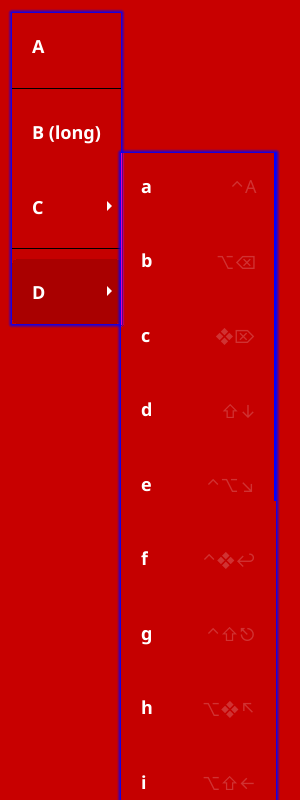
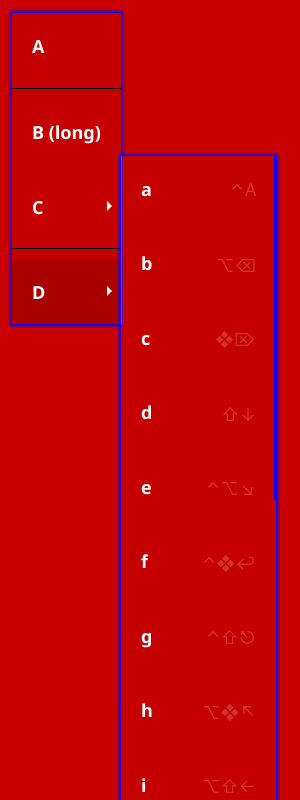
[widget] menu layout only uses interactive area
This fixes #4068 with the prior adjustment to the mobile’s interactive
area to take a displacing window head into account.

diff --git a/widget/popup_menu_test.go b/widget/popup_menu_test.go
@@ -44,11 +44,8 @@ func TestPopUpMenu_Resize(t *testing.T) {
 	largeSize := c.Size().Add(fyne.NewSize(10, 10))
 	m.Resize(largeSize)
 	test.AssertRendersToMarkup(t, "popup_menu/canvas_too_small.xml", c)
-	areaPos, areaSize := c.InteractiveArea()
-	safeAreaMargin := c.Size().Height - areaSize.Height
-	// #4068 (wip)
-	safeAreaMargin -= areaPos.Y
-	assert.Equal(t, fyne.NewSize(largeSize.Width, c.Size().Height-safeAreaMargin), m.Size(), "width is larger than canvas; height is limited by canvas (menu scrolls)")
+	_, areaSize := c.InteractiveArea()
+	assert.Equal(t, fyne.NewSize(largeSize.Width, areaSize.Height), m.Size(), "width is larger than canvas; height is limited by canvas (menu scrolls)")
 }
 
 func TestPopUpMenu_Show(t *testing.T) {
@@ -91,11 +88,8 @@ func TestPopUpMenu_ShowAtPosition(t *testing.T) {
 	menuSize := c.Size().Add(fyne.NewSize(10, 10))
 	m.Resize(menuSize)
 	test.AssertRendersToMarkup(t, "popup_menu/canvas_too_small.xml", c)
-	areaPos, areaSize := c.InteractiveArea()
-	safeAreaMargin := c.Size().Height - areaSize.Height
-	// #4068 (wip)
-	safeAreaMargin -= areaPos.Y
-	assert.Equal(t, fyne.NewSize(menuSize.Width, c.Size().Height-safeAreaMargin), m.Size(), "width is larger than canvas; height is limited by canvas (menu scrolls)")
+	_, areaSize := c.InteractiveArea()
+	assert.Equal(t, fyne.NewSize(menuSize.Width, areaSize.Height), m.Size(), "width is larger than canvas; height is limited by canvas (menu scrolls)")
 }
 
 func setupPopUpMenuTest() (*widget.PopUpMenu, fyne.Window) {

diff --git a/cmd/fyne_demo/tutorials/widget.go b/cmd/fyne_demo/tutorials/widget.go
@@ -340,7 +340,34 @@ This styled row should also wrap as expected, but only *when required*.
 }
 
 func makeInputTab(_ fyne.Window) fyne.CanvasObject {
-	selectEntry := widget.NewSelectEntry([]string{"Option A", "Option B", "Option C"})
+	selectEntry := widget.NewSelectEntry([]string{
+		"Option A",
+		"Option B",
+		"Option C",
+		"Option D",
+		"Option E",
+		"Option F",
+		"Option G",
+		"Option H",
+		"Option I",
+		"Option J",
+		"Option K",
+		"Option L",
+		"Option M",
+		"Option N",
+		"Option O",
+		"Option P",
+		"Option Q",
+		"Option R",
+		"Option S",
+		"Option T",
+		"Option U",
+		"Option V",
+		"Option W",
+		"Option X",
+		"Option Y",
+		"Option Z",
+	})
 	selectEntry.PlaceHolder = "Type or select"
 	disabledCheck := widget.NewCheck("Disabled check", func(bool) {})
 	disabledCheck.Disable()

diff --git a/widget/menu_desktop_test.go b/widget/menu_desktop_test.go
@@ -220,8 +220,7 @@ func TestMenu_Scrolling(t *testing.T) {
 
 	// 100x100
 	// + 4,5 for canvas’ safe area
-	// - 0,3 for #4068 (wip)
-	w.Resize(fyne.NewSize(104, 102))
+	w.Resize(fyne.NewSize(104, 105))
 	m := widget.NewMenu(menu)
 	o := internalWidget.NewOverlayContainer(m, c, nil)
 	c.Overlays().Add(o)
@@ -266,7 +265,8 @@ func TestMenu_TraverseMenu(t *testing.T) {
 		fyne.NewMenuItem("Baz", nil),
 	))
 	w.SetContent(internalWidget.NewOverlayContainer(m, c, nil))
-	w.Resize(m.MinSize())
+	// + 4,5 for canvas’ safe area
+	w.Resize(m.MinSize().AddWidthHeight(4, 5))
 	m.Resize(m.MinSize())
 
 	// going all the way down …

diff --git a/widget/menu.go b/widget/menu.go
@@ -241,9 +241,8 @@ func (r *menuRenderer) Layout(s fyne.Size) {
 	scrollSize := boxSize
 	if c := fyne.CurrentApp().Driver().CanvasForObject(r.m.super()); c != nil {
 		ap := fyne.CurrentApp().Driver().AbsolutePositionForObject(r.m.super())
-		pos, size := c.InteractiveArea()
-		bottomPad := c.Size().Height - pos.Y - size.Height
-		if ah := c.Size().Height - bottomPad - ap.Y; ah < boxSize.Height {
+		_, areaSize := c.InteractiveArea()
+		if ah := areaSize.Height - ap.Y; ah < boxSize.Height {
 			scrollSize = fyne.NewSize(boxSize.Width, ah)
 		}
 	}

diff --git a/widget/menu_test.go b/widget/menu_test.go
@@ -35,7 +35,8 @@ func TestMenu_RefreshOptions(t *testing.T) {
 		itemBaz,
 	))
 	w.SetContent(internalWidget.NewOverlayContainer(m, c, nil))
-	w.Resize(m.MinSize())
+	// + 4,5 for canvas’ safe area
+	w.Resize(m.MinSize().AddWidthHeight(4, 5))
 	m.Resize(m.MinSize())
 	test.AssertRendersToMarkup(t, "menu/refresh_initial.xml", c)
 

diff --git a/widget/menu_mobile_test.go b/widget/menu_mobile_test.go
@@ -154,8 +154,7 @@ func TestMenu_Dragging(t *testing.T) {
 
 	// 100x100
 	// + 4,5 for canvas’ safe area
-	// - 0,3 for #4068 (wip)
-	w.Resize(fyne.NewSize(104, 102))
+	w.Resize(fyne.NewSize(104, 105))
 	m := widget.NewMenu(menu)
 	o := internalWidget.NewOverlayContainer(m, c, nil)
 	c.Overlays().Add(o)
